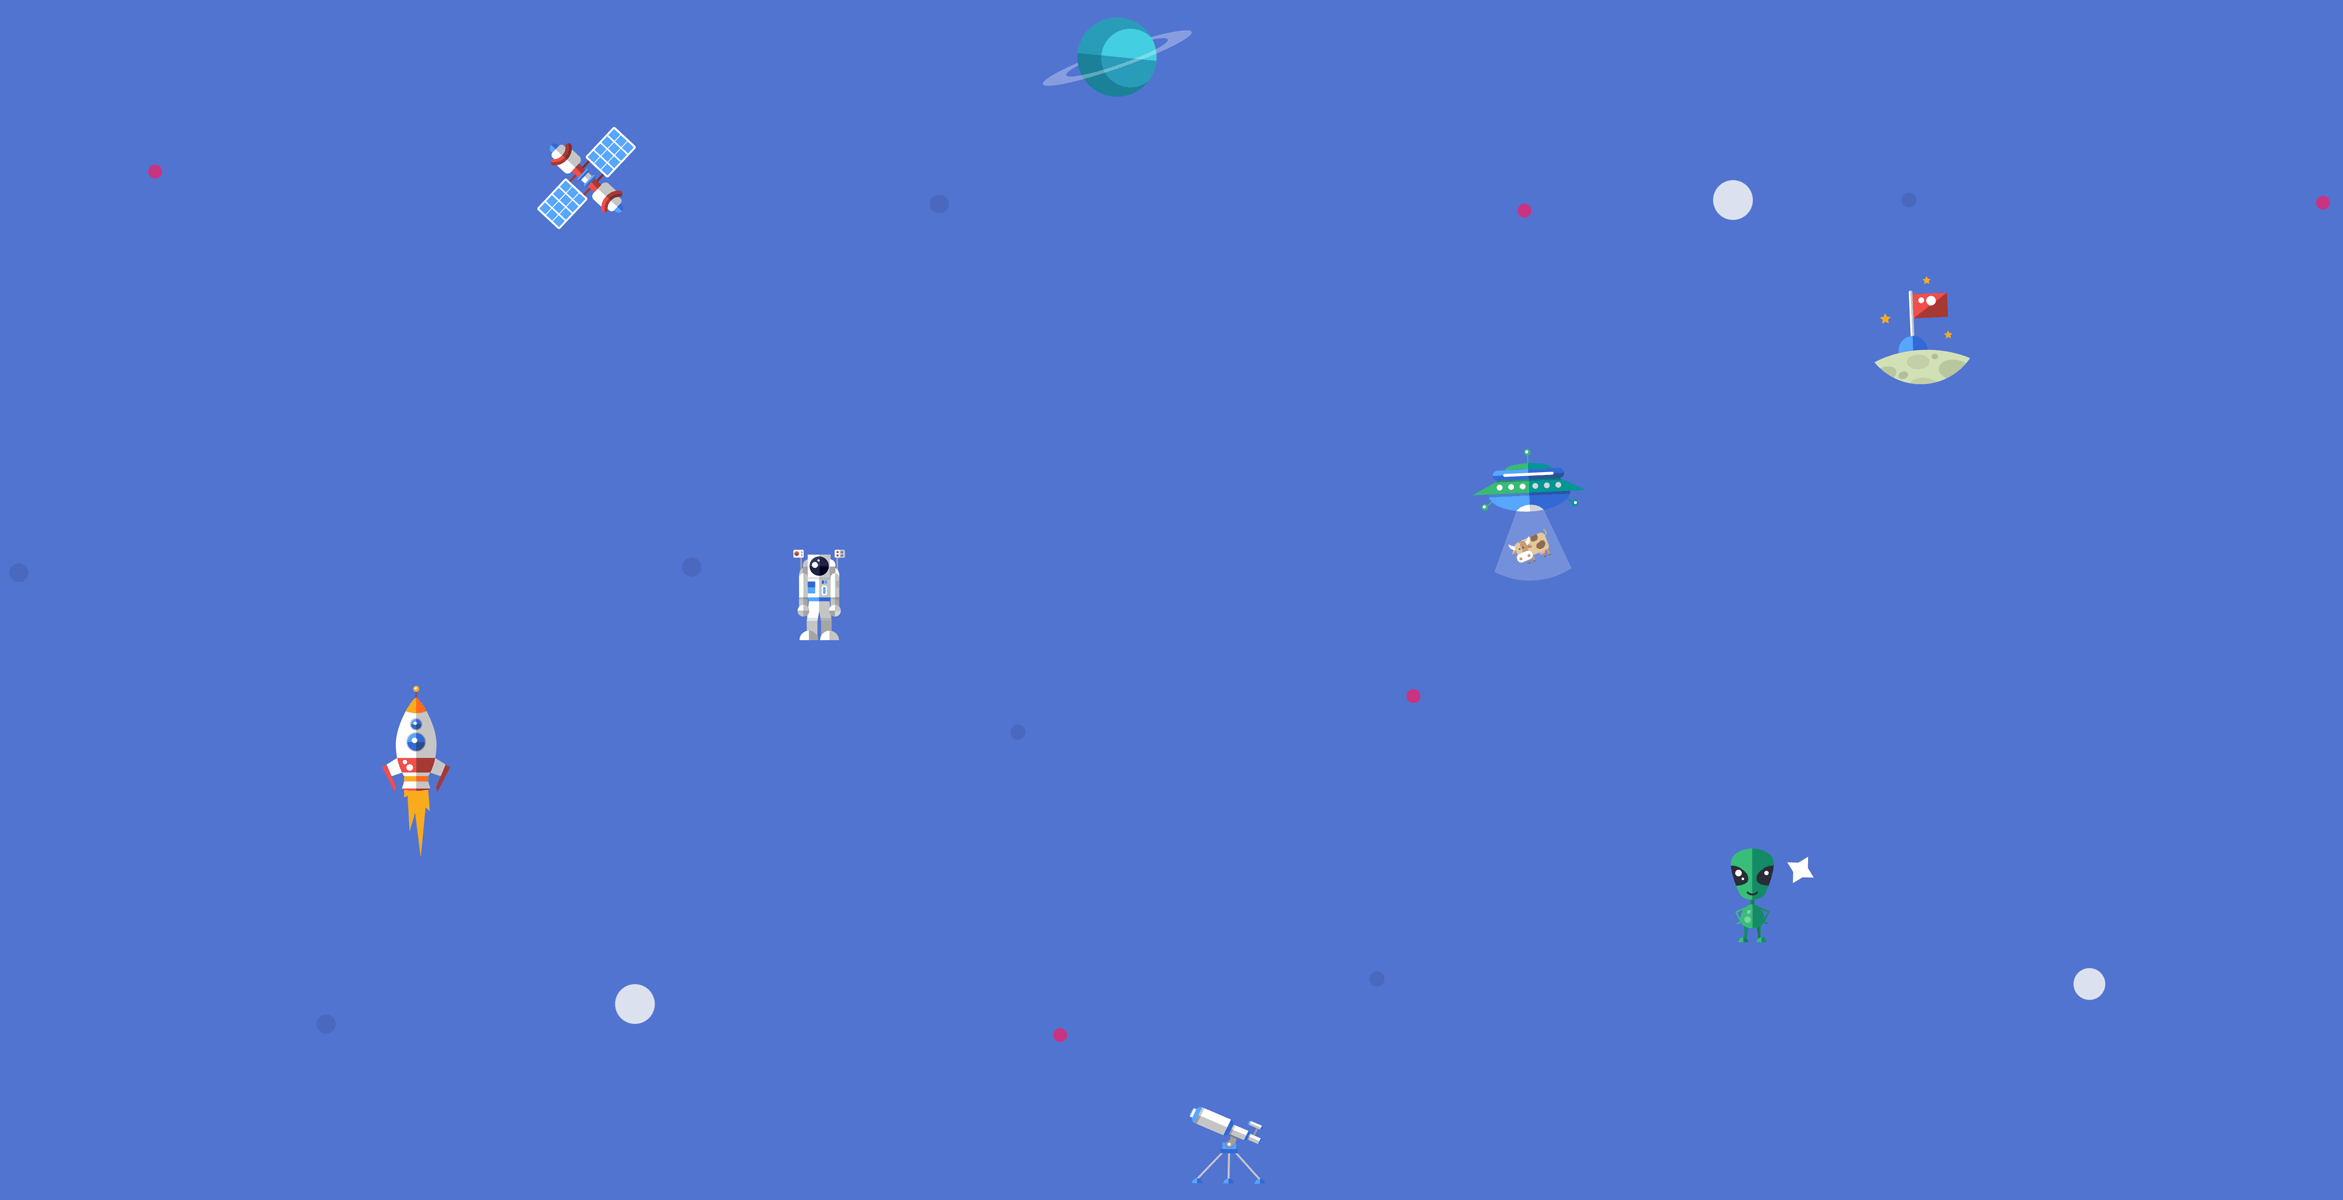
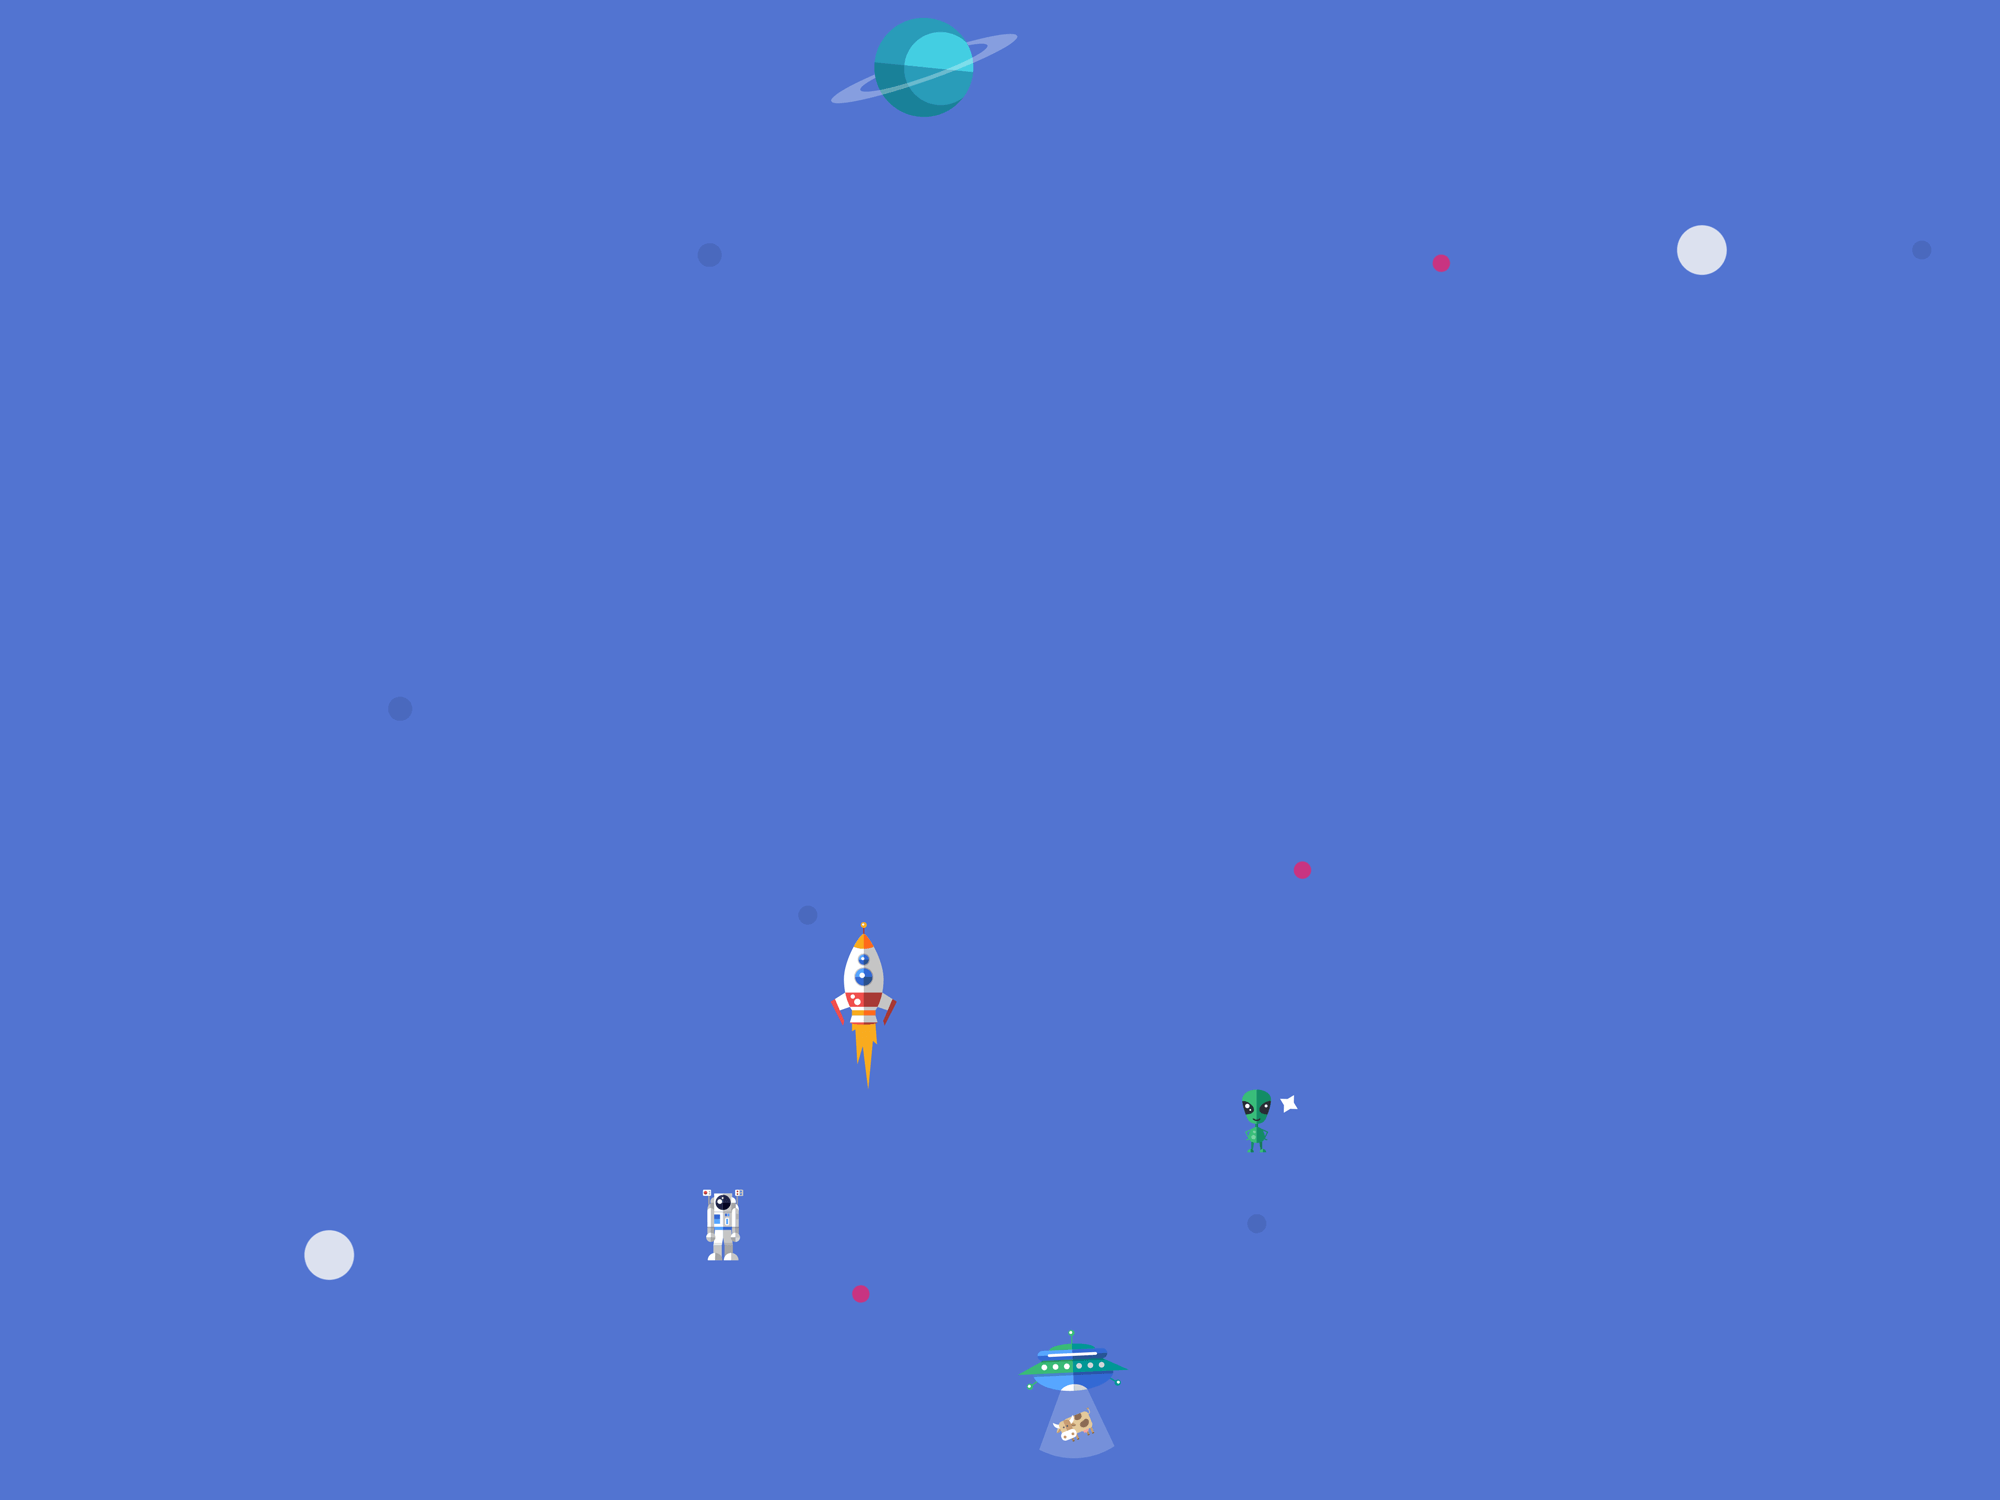
update

diff --git a/src/view/Game.vue b/src/view/Game.vue
@@ -15,11 +15,11 @@
     </div>
 
     <!-- 游戏区 -->
-    <div v-if="gameWords.length" class="flex flex-row flex-wrap w-full my-6">
+    <div v-if="gameWords.length" class="cards-container">
       <div
         v-for="(item, index) in gameWords"
         :key="`${index}-${item.word}`"
-        class="game-card w-1/2 p-3 cursor-pointer relative"
+        class="game-card"
         :class="{
           'pointer-events-none game-eliminated': item.isEliminated,
         }"
@@ -46,7 +46,7 @@
           { delay: 500 },
         ]"
       >
-        <div class="absolute top-3 bottom-3 left-3 right-3 w-auto h-auto flex justify-center items-center">
+        <div class="inner">
           <!-- 未查看 -->
           <div
             v-if="!item.isViewed"
@@ -76,19 +76,18 @@
             </div>
           </div>
           <!-- 调试专用 -->
-          <div
-            v-if="game.isDebugMode"
-            class="debug-text text-lg absolute top-2 text-sm"
-          >
+          <div v-if="game.isDebugMode" class="debug-text text-lg absolute top-2 text-sm">
             {{ item.isUndercover ? (item.isBlank ? "白板" : "卧底") : "平民" }}
           </div>
         </div>
+        <!-- 最底的牌面 -->
         <div 
           :class="
             item.isViewed
               ? 'card-viewed'
               : 'card-unviewed'
-          ">
+          "
+        >
         </div>
       </div>
     </div>
@@ -309,12 +308,9 @@ onMounted(() => {
   background-color: rgb(255, 202, 50);
   @apply mx-auto rounded-full mt-8 mb-6 pt-7 text-center text-2xl font-bold;
 }
-.viewed {
+.player-face.viewed {
   width: 4rem;
   height: 4rem;
-  background-color: #fff;
-  border-color: #666;
-  color: #666;
   @apply mt-4 pt-4 text-xl;
 }
 .words-face {
@@ -322,30 +318,34 @@ onMounted(() => {
   height: 6rem;
   @apply mx-auto rounded-full mb-1;
 }
+.cards-container {
+  @apply flex flex-row flex-wrap w-full mt-12 p-0;
+}
+.game-card {
+  @apply relative w-1/2 px-3 py-3;
+}
 .game-card::after {
   content: "";
-  position: absolute;
-  top: 0.75rem;
-  left: 0.75rem;
-  width: calc(100% - 1.5rem);
-  height: calc(100% - 1.5rem);
   background-image: url("/static/card-eliminated.png");
   background-position: center;
   background-repeat: no-repeat;
   background-size: contain;
   opacity: 0;
   z-index: 10;
-  @apply transition-opacity duration-150 pointer-events-none;
+  @apply absolute top-3 left-3 right-3 bottom-3 w-auto h-auto transition-opacity duration-150 pointer-events-none;
 }
 .game-card.game-eliminated::after {
   opacity: 1;
+}
+.game-card .inner {
+  @apply absolute top-0 left-0 right-0 bottom-0 w-auto h-auto flex justify-center items-center cursor-pointer;
 }
 .card-viewed, 
 .card-unviewed {
   background-position: center;
   background-repeat: no-repeat;
   background-size: contain;
-  @apply w-[100%] min-h-[12rem];
+  @apply w-[100%] min-w-[9rem] min-h-[12rem];
 }
 .card-viewed {
   background-image: url("/static/card-viewed.png");

diff --git a/src/view/Setting.vue b/src/view/Setting.vue
@@ -7,7 +7,7 @@
     </div>
     
     <div class="w-full bg-white rounded-xl border-[3px] border-solid border-gray-700 shadow-md mt-8 p-4">
-      <div class="w-full text-center">
+      <div class="w-full mt-3 text-center">
         <h1 class="text-2xl font-bold">游戏设置</h1>
       </div>
       <div class="w-full mt-8 px-4">
@@ -50,7 +50,9 @@
             </h2>
           </label>
         </div>
+        <div class="w-full mb-6 text-sm text-gray-500">若自定义词语未设置，将自动生成平民词和卧底词。</div>
         <!-- 调试模式 -->
+<!--
         <div class="flex flex-row justify-between items-center border-t border-[var(--td-border-level-1-color)] border-dashed pt-6 mb-6">
           <h2 class="text-lg font-medium">调试模式</h2>
           <RadioGroup v-model="game.isDebugMode">
@@ -58,7 +60,8 @@
             <Radio :value="false">关</Radio>
           </RadioGroup>
         </div>
-      </div>
+-->
+    </div>
     </div>
     <!-- 开始游戏 -->
     <div class="w-full mt-8 text-center">

diff --git a/src/view/Result.vue b/src/view/Result.vue
@@ -41,7 +41,7 @@
           v-for="(item, index) of civilianPlayerList"
           :key="`${index}-${item.word}`"
         >
-          <div class="player-face">
+          <div class="player-face civilian">
             {{ item.id + 1 + "号" }}
           </div>
         </div>
@@ -134,11 +134,14 @@ onMounted(() => {
   width: 3rem;
   height: 3rem;
   border: 2px solid #333;
-  background-color: rgb(255, 202, 50);
   @apply mx-auto rounded-full pt-3 text-center;
 }
-.undercover{
+.player-face.undercover {
   background-color: #666;
   color: #fff;
+}
+.player-face.civilian {
+  border-color: #333;
+  color: #333;
 }
 </style>

diff --git a/src/view/Home.vue b/src/view/Home.vue
@@ -1,8 +1,8 @@
 <template>
   <div class="Main">
     <div class="w-full">
-      <div class="flex justify-center items-center">
-        <img class="w-full h-auto max-w-[400px] mx-auto" src="/static/logo.png" alt="谁是卧底" />
+      <div class="logo-home">
+        <img class="w-full max-w-[20rem] h-auto mx-auto" src="/static/logo.png" alt="谁是卧底" />
       </div>
       <div class="w-full text-center">
         <router-link
@@ -27,4 +27,7 @@ const now = __BUILD_DATE__;
 </script>
 
 <style scoped>
+.logo-home {
+  @apply w-full mx-auto mt-16 mb-10;
+}
 </style>

diff --git a/src/style.css b/src/style.css
@@ -31,10 +31,6 @@
 
 #bg {
   background-color: rgb(82, 116, 209);
-  background-image: url("/static/bg.png");
-  background-position: top center;
-  background-repeat: no-repeat;
-  background-size: cover;
   @apply absolute top-0 left-0 bottom-0 right-0 z-0 overflow-hidden h-screen;
 }
 
